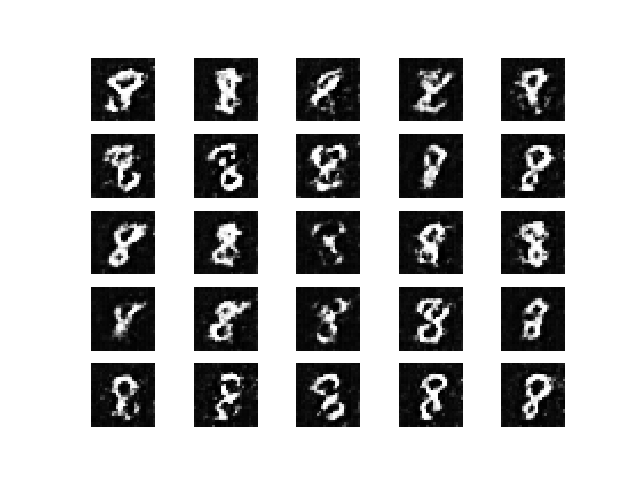
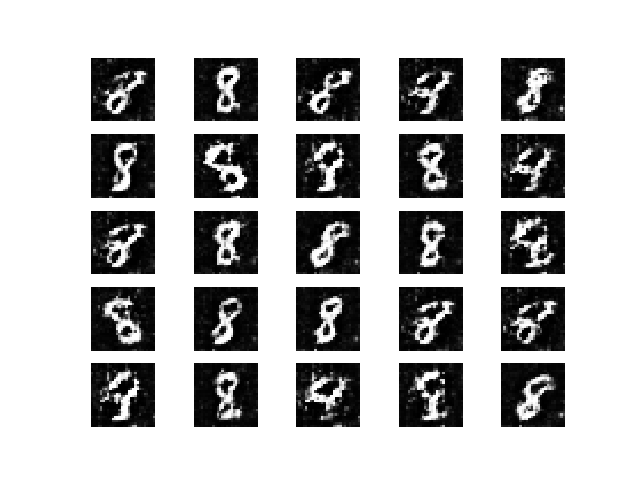
Trained on MNIST for a 100 Epoches

diff --git a/main.py b/main.py
@@ -12,8 +12,8 @@ from generator import Generator
 
 IMG_SIZE = 28
 CHANNELS = 1
-BATCH_SIZE = 10
-EPOCHS = 10
+BATCH_SIZE = 100
+EPOCHS = 100
 VALIDATION_SPLIT = 0.10
 LATENT_DIM = 100
 
@@ -86,7 +86,7 @@ class GAN:
             d_loss2, d_acc2 = self.discriminator.train_on_batch(
                 fake_images, fake_images_labels
             )
-            # Train disriminator on fake images
+            # Train disriminator on real images
             d_loss2, d_acc2 = self.discriminator.train_on_batch(
                 real_images, real_images_labels
             )
